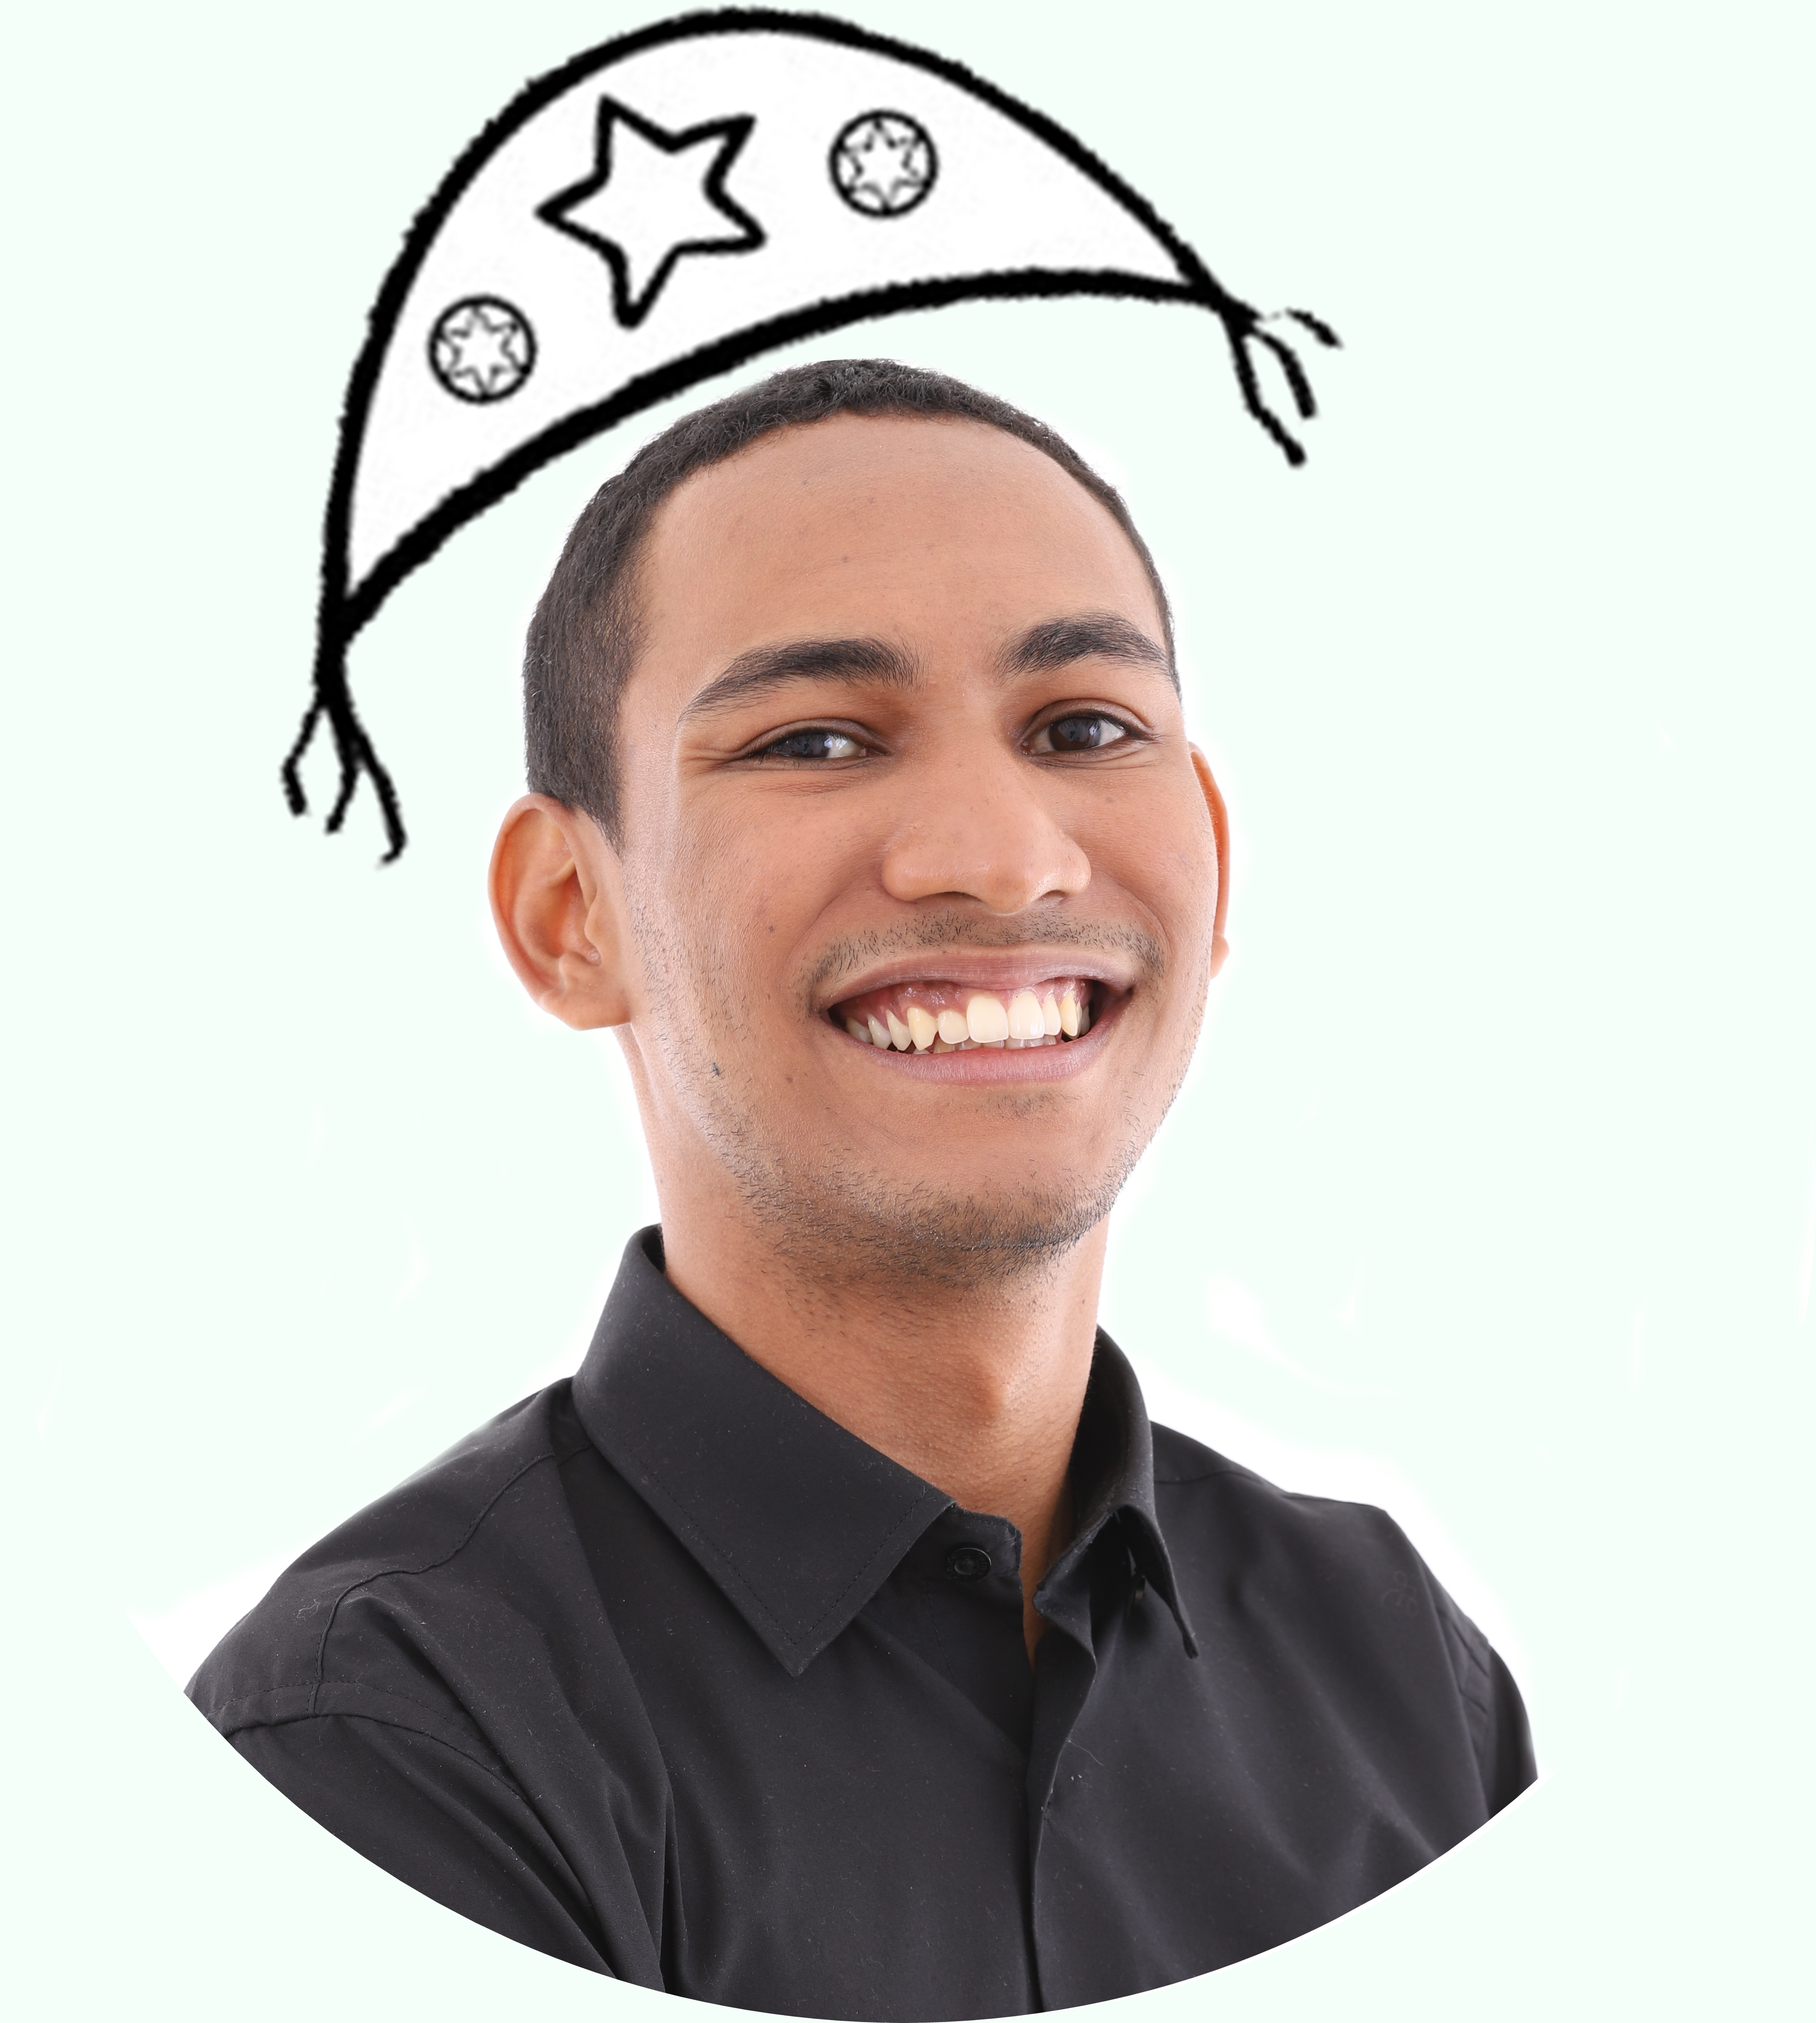
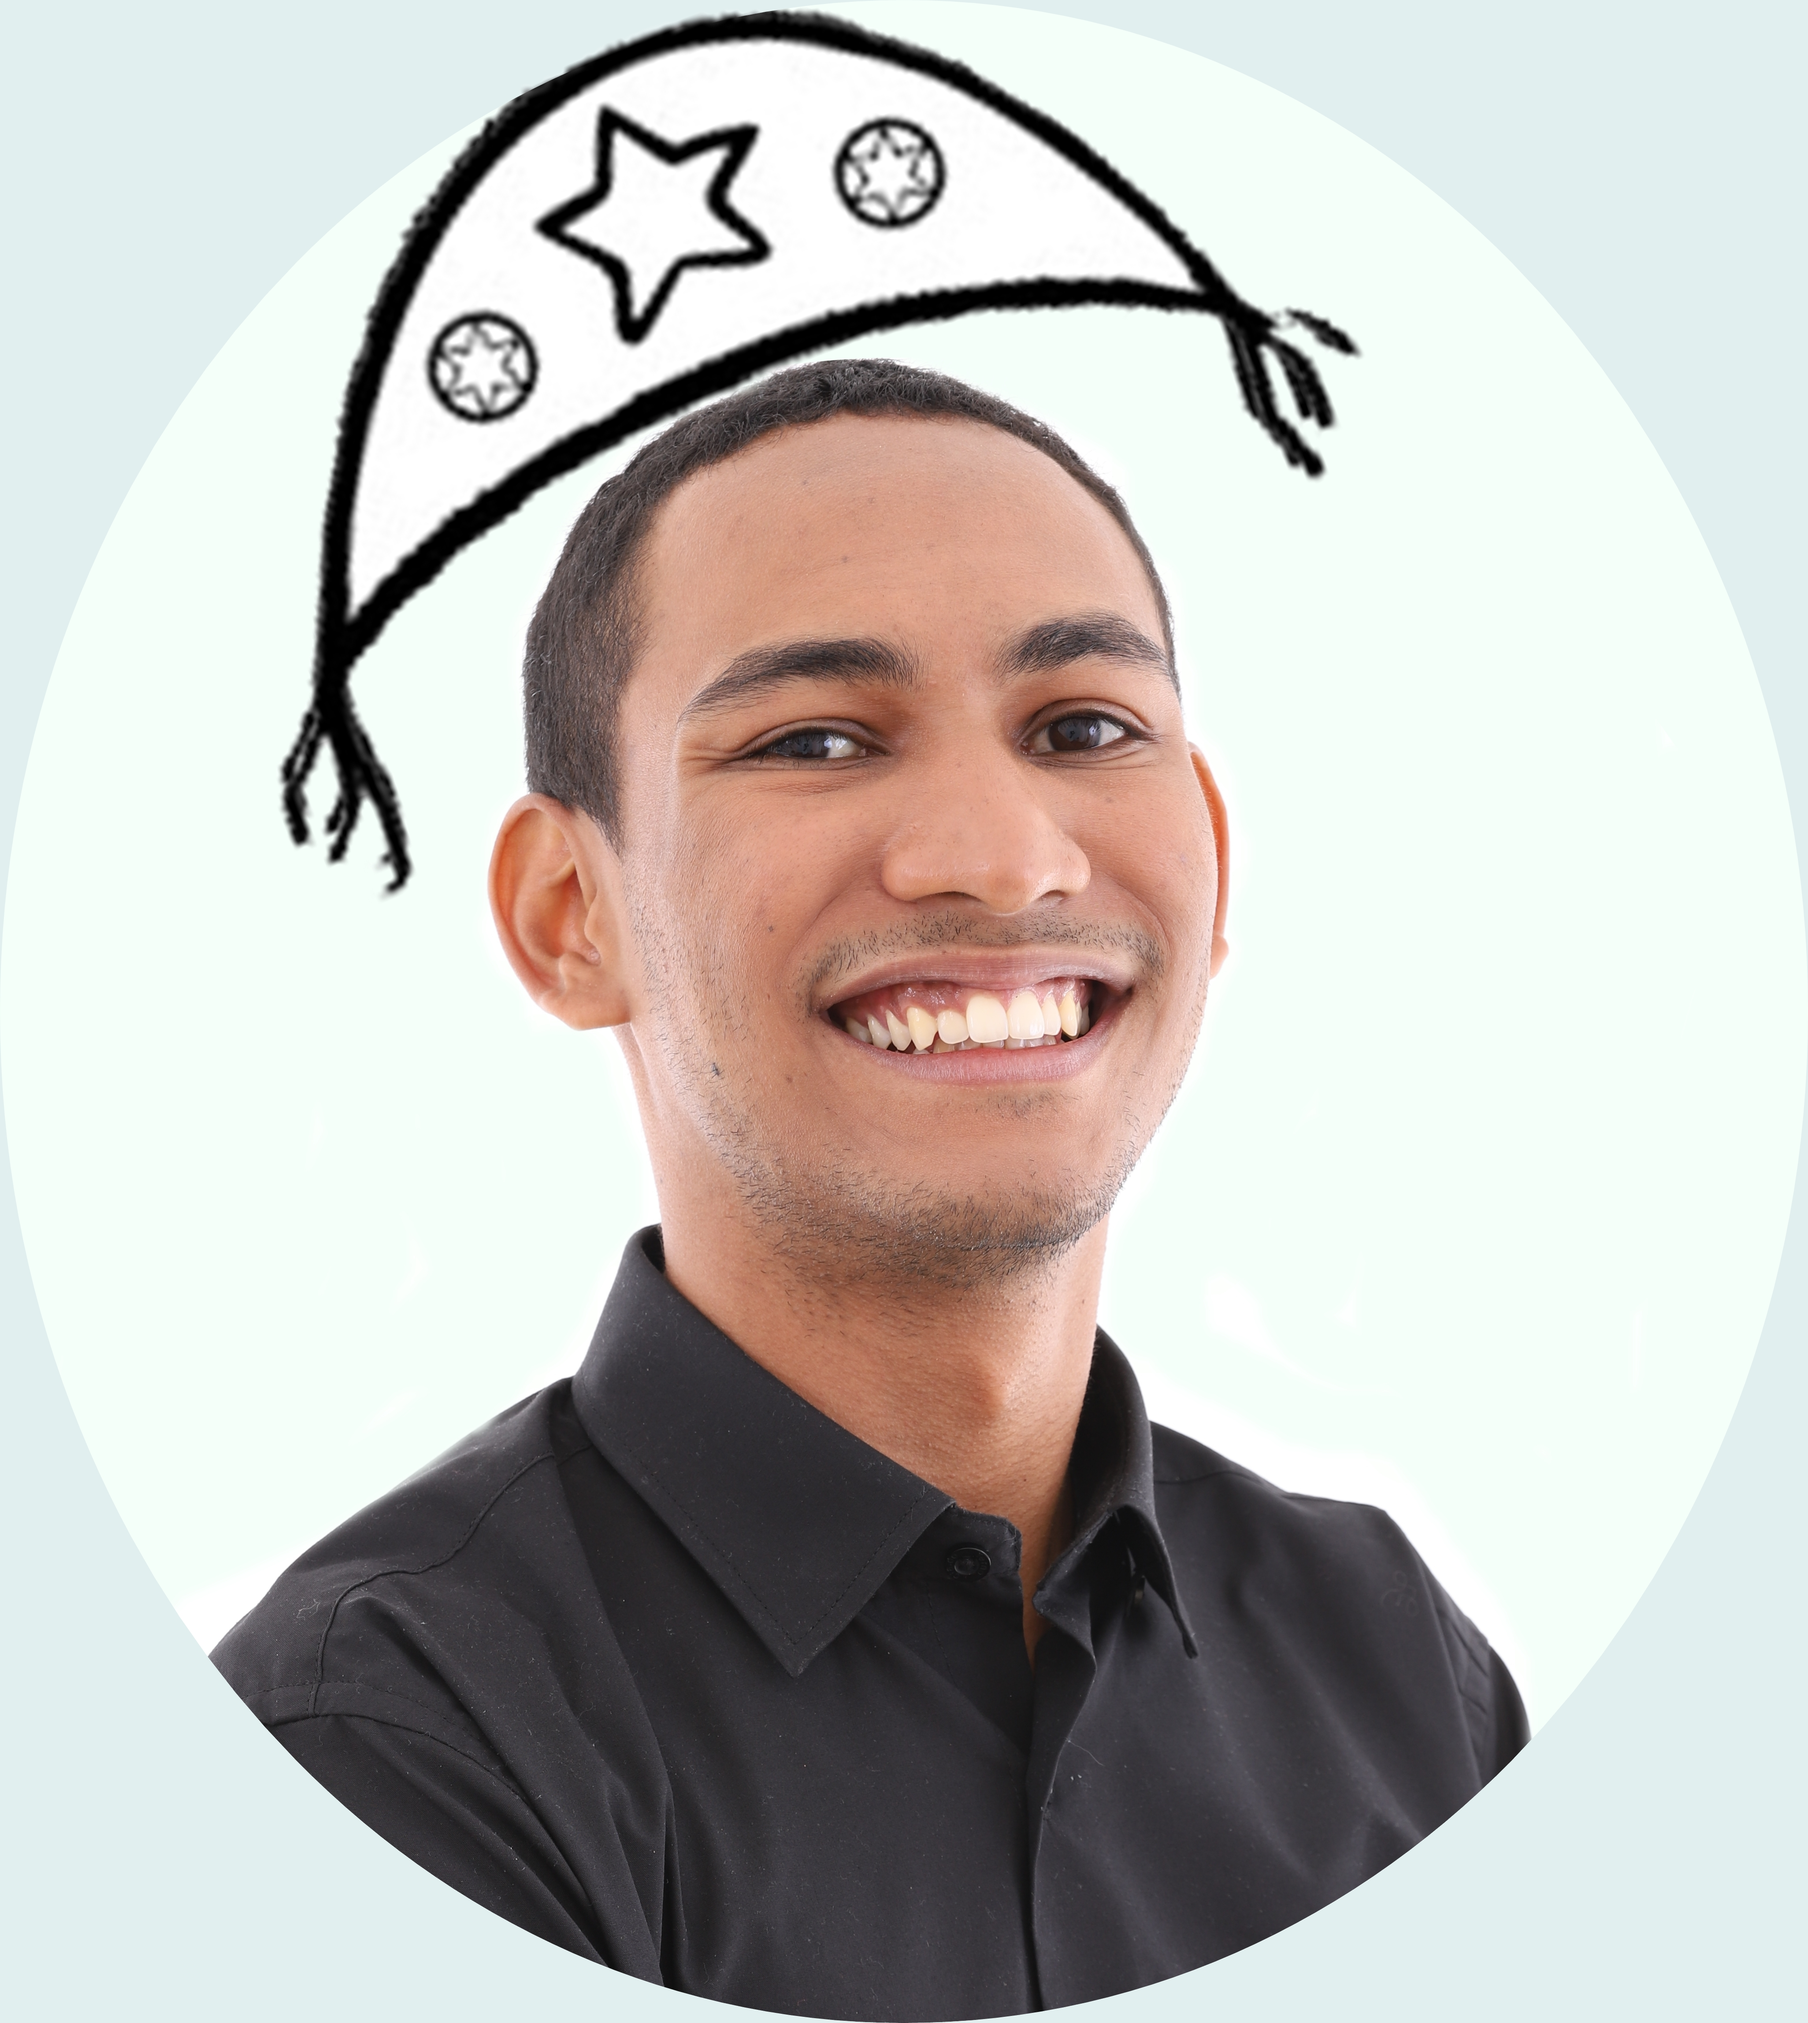
Atualização para entrega

diff --git a/modulo2/projeto-portfolio/styles.css b/modulo2/projeto-portfolio/styles.css
@@ -10,8 +10,10 @@ body{
 header{
     margin-top: 50px;
     margin: auto;
-    width: 800px;
     text-align: center;
+    position: sticky;
+    top: 0;
+    background-color : #F5FFFA;
 }
 
 /*Só o título*/
@@ -29,8 +31,10 @@ header{
     border: none; 
     border-radius: 10px;
     padding-top: 5px; 
+    margin: auto;
     font-family: Georgia, serif; 
     font-size: 20px; 
+    width: 800px;
     color: #E0FFFF; 
 }
 
@@ -76,6 +80,7 @@ main{
     font-size: 17px;
     color: #2F4F4F;
     background-color: #E1EFEF;
+    text-align: justify;
 }
 
 
@@ -107,7 +112,6 @@ footer{
 
 /*minha foto*/
 .foto-perfil{
-    border-radius: 35px;
     border: none;
     padding-top: 4px;
     padding-left: 3px;
@@ -124,7 +128,6 @@ footer{
     width: 580px;
     height:215px;
     font-size: 19px;
-    text-align: justify;
 }
 
 /*Deixar foto e texto lado a lado*/
@@ -138,13 +141,26 @@ footer{
     text-align: center;
 }
 
+/*div dos projetos*/
 #projetos{
     text-align: center;
-    padding-top: 10%;
+    padding-top: 5%;
     padding-bottom: 5%;
     height: 200px;
 }
 
+#projetos1{
+    text-align: center;
+}
+
+.imagens-projetos{
+    width: 430px;
+    height: 380px;
+    border: none;
+    border-radius: 10px;
+}
+
+/*Imagens de link dos projetos*/
 .link-projeto{
     width: 120px;
     height: 120px;

diff --git a/modulo2/projeto-portfolio/projeto-blackjack.html b/modulo2/projeto-portfolio/projeto-blackjack.html
@@ -28,6 +28,32 @@
     <!--Conteúdo da página-->
     <main>
 
+        <!--Dados do projeto BlackJack-->
+        <div class="conteudo" id="projetos1">
+            <h3>Jogo BlackJack no JavaScript</h3>
+
+            <img src="prints/blackjack01.jpg" alt="Projeto BlackJack" class="imagens-projetos">
+        </div>
+
+        <div class="conteudo">
+            <p>
+                Este projeto, tem como objetivo criar um joguinho básico em JavaScript,
+                baseado no BlackJack. E como ele funciona?
+            </p>
+            <p>
+                Ao entrar, uma tela prompt, pergunta o nome do jogador, e começa a partida.
+                Serão selecionada duas cartas para o jogador e duas para o computador, e serão mostrada
+                no console. Cada carta tem um valor que serão somados. Quem tiver o maior número ganha.
+                Será mostrado no console uma mensagem de quem ganhou e um prompt perguntando se quer 
+                outra jogada, se sim, recomeçará tudo novamente. Se não, mostrará uma mensagem no console
+                informando que o jogo acabou. 
+            </p>
+            <p>Tecnologia utilizada:</p>
+            <ul>
+                <li>JavaScript</li>
+            </ul>
+        </div>
+
     </main>
 
     <!--Rodapé-->

diff --git a/modulo2/projeto-portfolio/projeto-livraria.html b/modulo2/projeto-portfolio/projeto-livraria.html
@@ -28,6 +28,25 @@
     <!--Conteúdo da página-->
     <main>
 
+        <!--Dados do projeto livraria-->
+        <div class="conteudo" id="projetos1">
+            <h3>Loja Virtual Livraria Lucas</h3>
+
+            <img src="prints/livrarialucas01.jpg" alt="Projeto Livraria Lucas" class="imagens-projetos">
+        </div>
+        <div class="conteudo">
+            <p>
+                Este projeto, teve como objetivo iniciar minha jornada no CSS e HTML. "Criei" uma Loja
+                virtual, neste caso uma livraria, e apliquei os conhecimentos básicos que tinha em HTML 
+                e CSS. Mesmo sendo simples, mostra os primeiros passos nesta jornada. 
+            </p>
+            <p>Tecnologia utilizada:</p>
+            <ul>
+                <li>HTML</li>
+                <li>CSS</li>
+            </ul>
+        </div>
+
     </main>
 
     <!--Rodapé-->
